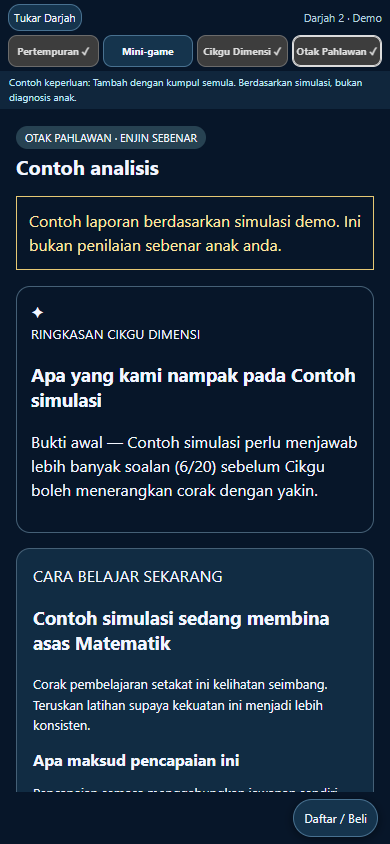
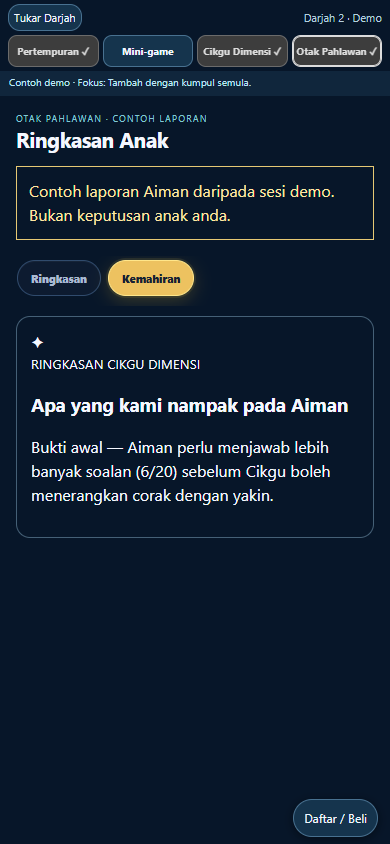
Restore Jelajah finisher and current parent summary with plain BM copy

diff --git a/js/jelajah-v1.js b/js/jelajah-v1.js
@@ -6,18 +6,19 @@
  function collapse(){$('offers').hidden=true;$('buy').setAttribute('aria-expanded','false')}
  function leave(){generation++;cleanup?.();cleanup=null;frame=null;$('content').replaceChildren();if($('autopilotDialog').open)$('autopilotDialog').close();if($('activityIntro').open)$('activityIntro').close();collapse()}
  function cards(){$('cards').hidden=!grade;$('cards').innerHTML=names.map((name,i)=>`<button data-card="${i}" class="${done.has(i)?'done':''}" ${i&&!battleFinished?'disabled':''} ${active===i?'aria-current="page"':''}><img src="${images[i]}" alt=""><strong>${name}</strong><small>${done.has(i)?'✓ Selesai · ulang':i&&!battleFinished?'Selepas battle':'Teroka'}</small></button>`).join('')}
- function entry(){leave();grade=0;done=new Set();battleFinished=false;log=[];cards();$('changeGrade').hidden=true;$('tourLabel').textContent='Demo Jelajah · Pilih darjah';$('status').textContent='Tanpa akaun · Tiada rekod penguasaan disimpan';$('content').innerHTML=`<section class="panel grade-entry"><img class="entry-hero" src="assets/heroes/wira/frames/idle-loop-0-v1.webp" alt="Wira"><h1>Pilih Darjah</h1><p>Cuba enam soalan pertempuran. Kemudian lihat simulasi bantuan melalui mini-game, Cikgu Dimensi dan contoh laporan.</p><div class="grade-grid">${[1,2,3,4,5,6].map(g=>`<button data-grade="${g}">Darjah ${g}</button>`).join('')}</div><p class="lead">Ini demonstrasi. Bukan penilaian sebenar anak anda.</p></section>`}
+ function entry(){leave();grade=0;done=new Set();battleFinished=false;log=[];cards();$('changeGrade').hidden=true;$('tourLabel').textContent='Demo Jelajah · Pilih darjah';$('status').textContent='Tanpa akaun · Cuba percuma';$('content').innerHTML=`<section class="panel grade-entry"><img class="entry-hero" src="assets/heroes/wira/frames/idle-loop-0-v1.webp" alt="Wira"><h1>Pilih Darjah</h1><p>Cuba enam soalan pertempuran. Kemudian lihat simulasi bantuan melalui mini-game, Cikgu Dimensi dan contoh laporan.</p><div class="grade-grid">${[1,2,3,4,5,6].map(g=>`<button data-grade="${g}">Darjah ${g}</button>`).join('')}</div><p class="lead">Ini demonstrasi. Bukan penilaian sebenar anak anda.</p></section>`}
  function startBattle(){leave();active=0;log=[];cards();$('changeGrade').hidden=false;$('tourLabel').textContent=`Darjah ${grade} · Demo`;$('status').textContent='Soalan 1–6: kamu jawab. Selepas itu, pilih Mulakan Autopilot.';$('content').innerHTML=`<iframe title="Battlefield asal · Darjah ${grade}" src="jelajah-runtime.html?grade=${grade}" allow="autoplay"></iframe>`;frame=$('content').querySelector('iframe')}
- function complete(index){done.add(index);cards();leave();$('status').textContent=`${names[index]} selesai. Boleh ulang atau pilih kad seterusnya.`;$('content').innerHTML=`<section class="panel"><h2>${names[index]} selesai</h2><p>${index===1?'Kamu sudah mencuba mini-game sebenar untuk topik simulasi tadi.':'Kitaran contoh Cikgu Dimensi selesai. Latihan ini tidak menulis penguasaan murid.'}</p><button data-open="${index}" class="primary">Ulang aktiviti</button><button data-open="${index===1?2:3}">Teruskan ke ${names[index===1?2:3]}</button></section>`}
+ function complete(index){done.add(index);cards();leave();$('status').textContent=`${names[index]} selesai. Boleh ulang atau pilih kad seterusnya.`;$('content').innerHTML=`<section class="panel"><h2>${names[index]} selesai</h2><p>${index===1?'Syabas! Teruskan dengan latihan Cikgu Dimensi.':'Syabas! Latihan bersama Cikgu Dimensi selesai.'}</p><button data-open="${index}" class="primary">Ulang aktiviti</button><button data-open="${index===1?2:3}">Teruskan ke ${names[index===1?2:3]}</button></section>`}
  function intro(title,text,action){$('activityIntroTitle').textContent=title;$('activityIntroText').textContent=text;$('activityIntroStart').onclick=()=>{$('activityIntro').close();action()};$('activityIntro').showModal()}
- function show(index){if(index&&!battleFinished)return;if(index===0){startBattle();return}leave();active=index;cards();const s=scenario(),token=generation;$('status').textContent=`Contoh keperluan: ${s.topic}. Berdasarkan simulasi, bukan diagnosis anak.`;if(index===3){brain();return}
-  const launch=()=>{$('content').innerHTML='<div class="activity-host" id="activityHost"></div>';const options={snapshot:battleSnapshot,onComplete:()=>{if(token===generation)complete(index)},onExit:()=>{if(token===generation)summary()},onManualComplete:info=>intro('Jom tengok cara','Tiga cabaran selesai. Dua cabaran seterusnya ialah simulasi: lihat bagaimana Wira membimbing melalui mekanik “Jom tengok cara” sebenar.',()=>info.startAutopilot())};cleanup=(index===1?PAJelajahMiniGame:PAJelajahCoach).mount($('activityHost'),s,options)};
-  intro(index===1?'Mini-game mengikut keperluan anak':'Cikgu Dimensi · Latihan campuran',index===1?`Mini-game dipilih mengikut kemahiran yang memerlukan pengukuhan. Dalam simulasi tadi, kesilapan berulang melibatkan ${s.topic.toLowerCase()}. Cuba tiga cabaran sendiri, kemudian lihat dua contoh bantuan automatik.`:`Cikgu Dimensi memberi latihan campuran mengikut keperluan anak. Berdasarkan contoh kesilapan tadi, ${s.topic.toLowerCase()} diberi perhatian melalui pemilihan soalan sebenar. Ini contoh Kembara Fokus, bukan Learning Camp lama.`,launch)
+ function show(index){if(index&&!battleFinished)return;if(index===0){startBattle();return}leave();active=index;cards();const s=scenario(),token=generation;$('status').textContent=`Contoh demo · Fokus: ${s.topic}.`;if(index===3){brain();return}
+  const launch=()=>{$('content').innerHTML='<div class="activity-host" id="activityHost"></div>';const options={snapshot:battleSnapshot,onComplete:()=>{if(token===generation)complete(index)},onExit:()=>{if(token===generation)summary()},onManualComplete:info=>intro('Jom tengok cara','Bagus! Sekarang lihat dua contoh Wira membimbing langkah demi langkah.',()=>info.startAutopilot())};cleanup=(index===1?PAJelajahMiniGame:PAJelajahCoach).mount($('activityHost'),s,options)};
+  intro(index===1?'Berlatih sambil bermain':'Cikgu Dimensi · Latihan campuran',index===1?`Anak kerap tersalah dalam ${s.topic.toLowerCase()}? Mini-game ini membantu menguatkan kemahiran itu. Cuba tiga soalan, kemudian lihat cara Wira membantu. Ini contoh demo.`:`Cikgu Dimensi memberi latihan campuran, dengan lebih soalan tentang ${s.topic.toLowerCase()}, seperti dalam contoh tadi. Cuba enam soalan latihan pilihan Cikgu Dimensi.`,launch)
  }
- function summary(){leave();cards();$('status').textContent='Battle selesai. Pilih mini-game atau Cikgu Dimensi; lihat contoh laporan selepas itu.';$('content').innerHTML=`<section class="panel"><h2>Aurora berjaya diselamatkan!</h2><p>Dalam simulasi tadi: ${scenario().misconception||scenario().topic}.</p><p>Jom cuba bantuan untuk topik yang sama. Soalan manual tidak digunakan untuk menentukan topik ini.</p><button data-open="1" class="primary">Main mini-game</button><button data-open="2">Jumpa Cikgu Dimensi</button></section>`}
- function brain(){done.add(3);cards();$('content').innerHTML=`<section class="panel"><span class="badge">OTAK PAHLAWAN · ENJIN SEBENAR</span><h2>Contoh analisis</h2><p class="report-notice">Contoh laporan berdasarkan simulasi demo. Ini bukan penilaian sebenar anak anda.</p>${battleSnapshot?.reportMarkup||'<p>Analisis sementara belum tersedia.</p>'}<p>Enam jawapan manual dipisahkan daripada data simulasi. Enjin asal menentukan sama ada bukti sudah cukup; demo tidak mereka peratus atau diagnosis.</p></section>`}
+ function summary(){leave();cards();$('status').textContent='Battle selesai. Pilih mini-game atau Cikgu Dimensi; lihat contoh laporan selepas itu.';$('content').innerHTML=`<section class="panel"><h2>Aurora berjaya diselamatkan!</h2><p>Contoh tadi menunjukkan kesilapan dalam ${scenario().topic.toLowerCase()}.</p><p>Jom cuba latihan dan permainan untuk menguatkan kemahiran ini.</p><button data-open="1" class="primary">Main mini-game</button><button data-open="2">Jumpa Cikgu Dimensi</button></section>`}
+ function brain(){done.add(3);cards();$('content').innerHTML=`<section id="parent" class="jelajahParent"><div class="parentTop"><div><div class="eyebrow">OTAK PAHLAWAN · CONTOH LAPORAN</div><h2>Ringkasan Anak</h2></div></div><p class="report-notice">Contoh laporan Aiman daripada sesi demo. Bukan keputusan anak anda.</p><div class="tabs parentTabs"><button data-report="summary" class="active">Ringkasan</button><button data-report="core">Kemahiran</button></div><div id="summaryTab">${battleSnapshot?.reportMarkup||''}</div><div id="coreTab" hidden>${battleSnapshot?.detailMarkup||''}</div></section>`}
+ window.tab=name=>{const detail=name==='core';$('summaryTab').hidden=detail;$('coreTab').hidden=!detail;document.querySelectorAll('[data-report]').forEach(b=>b.classList.toggle('active',b.dataset.report===name))};
  $('cards').onclick=e=>{const b=e.target.closest('[data-card]');if(b&&!b.disabled)show(Number(b.dataset.card))};$('changeGrade').onclick=entry;
- $('content').onclick=e=>{const g=e.target.closest('[data-grade]'),b=e.target.closest('[data-open]');if(g){grade=Number(g.dataset.grade);startBattle()}else if(b)show(Number(b.dataset.open));collapse()};
+ $('content').onclick=e=>{const report=e.target.closest('[data-report]');if(report){window.tab(report.dataset.report);return}const g=e.target.closest('[data-grade]'),b=e.target.closest('[data-open]');if(g){grade=Number(g.dataset.grade);startBattle()}else if(b)show(Number(b.dataset.open));collapse()};
  $('buy').onclick=()=>{const open=$('offers').hidden;$('offers').hidden=!open;$('buy').setAttribute('aria-expanded',String(open))};
  $('offers').onclick=e=>{const b=e.target.closest('[data-offer]');if(!b)return;collapse();$('offerFrame').src='jelajah-offer.html?mode='+b.dataset.offer;$('offerDialog').showModal()};
  $('closeOffer').onclick=()=>$('offerDialog').close();$('offerDialog').addEventListener('close',()=>$('offerFrame').removeAttribute('src'));

diff --git a/js/jelajah-engine-v3.js b/js/jelajah-engine-v3.js
@@ -39,7 +39,7 @@
  function profileSnapshot(profile,session){return{profile:clone(profile),session:clone(session)}}
  function create(grade,options={}){
   const g=Number(grade)||Number(options.profile?.schoolGrade)||1;
-  const profile=clone(options.profile||(typeof db!=='undefined'?db:root.db)||{});profile.schoolGrade=g;profile.name='Contoh simulasi';profile.demoMode=true;
+  const profile=clone(options.profile||(typeof db!=='undefined'?db:root.db)||{});profile.schoolGrade=g;profile.name='Aiman';profile.demoMode=true;
   profile.diagLog=Array.isArray(profile.diagLog)?profile.diagLog.slice():[];
   const session=clone(options.session||{gembok:true,mode:'gembok',demoMode:true,jelajahEngine:true,coachAdaptive:false,recent:[],responseHistory:[],interventionCooldown:{},confirmSkill:null,confirmRemaining:0,questionToken:0});
   session.demoMode=true;session.jelajahEngine=true;session.coachAdaptive=false;session.gembok=true;session.mode='gembok';session.recent=session.recent||[];session.responseHistory=session.responseHistory||[];
@@ -91,9 +91,13 @@
   function snapshot(){
    const B=root.PADiagnostic,T=root.PATargets;report=B?.analyze?B.analyze(profile.diagLog,{name:profile.name}):{findings:[],strengths:[],total:profile.diagLog.length,enough:false,name:profile.name};
    const plan=T?.plan?T.plan(report,{grade:g}):{steps:[]};
-   const learnerMarkup=withState(profile,session,()=>typeof learnerReviewCard==='function'?learnerReviewCard():'');
+   const parentMarkup=withState(profile,session,()=>{
+    const core=graph().skills.filter(x=>Number(x.grade)===g),rows=learnerDisplayStats();
+    const attempts=rows?.attempts||core.reduce((n,m)=>n+skillAttempts(scoreState(m.id)),0);
+    return parentGlanceMarkup(g,parentPowerSummary(core,attempts));
+   });
    const focusSummary=withState(profile,session,()=>root.PAFocusPractice?.summary?.(profile)||null);
-   return{grade:g,profile:clone(profile),session:clone(session),report:clone(report),plan:clone(plan),focusSummary:clone(focusSummary),reportMarkup:(B?.cardMarkup?B.cardMarkup(report):'')+learnerMarkup};
+   return{grade:g,profile:clone(profile),session:clone(session),report:clone(report),plan:clone(plan),focusSummary:clone(focusSummary),reportMarkup:parentMarkup,detailMarkup:B?.cardMarkup?B.cardMarkup(report):''};
   }
   function restore(state){if(!state)return snapshot();Object.assign(profile,clone(state.profile||{}));Object.assign(session,clone(state.session||{}));report=clone(state.report||null);focusPlan=null;return snapshot()}
   function focus(skill){

diff --git a/demo-jelajah.html b/demo-jelajah.html
@@ -1,4 +1,4 @@
-<!doctype html><html lang="ms"><head><meta charset="utf-8"><meta name="viewport" content="width=device-width,initial-scale=1,viewport-fit=cover"><meta name="robots" content="noindex,nofollow"><title>Pahlawan Angka · Demo Jelajah V1</title><link rel="stylesheet" href="css/jelajah-v1.css"></head><body>
+<!doctype html><html lang="ms"><head><meta charset="utf-8"><meta name="viewport" content="width=device-width,initial-scale=1,viewport-fit=cover"><meta name="robots" content="noindex,nofollow"><title>Pahlawan Angka · Demo Jelajah V1</title><link rel="stylesheet" href="css/parent-dashboard-v3.25.4.css"><link rel="stylesheet" href="css/jelajah-v1.css"></head><body>
 <div class="tour"><header><button id="changeGrade" hidden>Tukar Darjah</button><small id="tourLabel">Demo Jelajah · Pilih darjah</small></header><nav id="cards" aria-label="Jelajah demo" hidden></nav><p id="status" role="status">Cuba pertempuran, kemudian lihat cara Pahlawan Angka membantu.</p><main id="content"></main><footer><div id="offers" hidden><button data-offer="daftar">Daftar Percuma</button><button data-offer="pakej">Lihat Pakej</button></div><button id="buy" aria-expanded="false" aria-controls="offers">Daftar / Beli</button></footer></div>
 <dialog id="autopilotDialog" aria-labelledby="autopilotTitle"><h2 id="autopilotTitle">Lihat contoh bantuan</h2><p>Sekarang tengok bagaimana Pahlawan Angka membantu apabila murid berulang kali tersalah jawab. Enam soalan seterusnya ialah simulasi automatik.</p><button id="startAutopilot" class="primary">Mulakan Autopilot</button></dialog>
 <dialog id="offerDialog" aria-label="Daftar dan pakej"><button id="closeOffer">Tutup · Sambung demo</button><iframe id="offerFrame" title="Daftar dan pakej Pahlawan Angka"></iframe></dialog>

diff --git a/js/segel-demo-v2.1.0.js b/js/segel-demo-v2.1.0.js
@@ -2931,11 +2931,16 @@
       /* Tiada pengembaraan yang gagal — Aurora sentiasa diselamatkan, cuma
          bintang yang berbeza. Kalau soalan habis sebelum semua segel pecah,
          Wira menghabiskan bakinya di sini. */
-      async forceBreakRest(){
+      async forceBreakRest(showFinisher=false){
         const lifecycle=S.lifecycle;
         while(S.active<stageTiers.length){
           if(lifecycle!==S.lifecycle)return false;
           const s=seals[S.active];
+          if(showFinisher&&S.active===stageTiers.length-1){
+            s.damage=Math.max(s.damage,1-1/s.tier.hits);
+            await this.strike();if(lifecycle!==S.lifecycle)return false;
+            this.hitSeal();await this.waitFinalImpact();return lifecycle===S.lifecycle;
+          }
           s.damage=1; s.broken=true; s.breakT=0;
           if(!reduceMotion)shatter(s);
           popSound(); burst(6,s.tier.color); S.flashT=0; S.shake=.4;
@@ -3898,7 +3903,7 @@
     $('segelTag').style.opacity='0';
     if(!stage.allBroken()){
       toast('SATU TEBASAN LAGI!');
-      await stage.forceBreakRest();
+      await stage.forceBreakRest(!!(entryMode?.guestDemo&&entryMode?.jelajah));
       if(!currentRun(activeRun))return;
     }
     toast(`${devPetName().toUpperCase()} BEBAS!`);

diff --git a/css/jelajah-v1.css b/css/jelajah-v1.css
@@ -5,3 +5,5 @@
 #cards{gap:4px;padding:0 8px 4px}#cards button{display:block;min-height:30px;height:32px;padding:5px 2px;border-radius:9px;font-size:10px}#cards img,#cards small{display:none!important}#cards strong{font-size:10px;line-height:16px;white-space:nowrap}#cards .done strong:after{content:' ✓'}header{padding:4px 8px;min-height:24px}#status{min-height:25px;padding:4px 9px;font-size:10px}.paDiagCard{padding:14px;border:1px solid #456076;border-radius:14px}.paDiagList{padding-left:18px}.paDiagList li{margin:12px 0;line-height:1.5}
 #engineTip{display:block;font-size:10px;line-height:1.3;color:#c4ecdf;margin-top:3px}
 @media(max-width:380px){#cards strong{font-size:9px}}.learnerReviewCard{background:#112c43;padding:16px;border:1px solid #456076;border-radius:14px;margin-top:15px}.learnerReviewCard p,.learnerReviewCard li{font-size:13px;line-height:1.6}
+
+#parent.jelajahParent{max-width:780px;margin:auto;padding:16px}#parent .parentTabs button.active{background:#edc260;color:#172033}#parent .paDiagCard{margin-top:10px}

diff --git a/js/jelajah-battle-bridge-v1.js b/js/jelajah-battle-bridge-v1.js
@@ -7,7 +7,7 @@
   clearTimeout(pending);const index=run.asked,step=scenario.scriptSteps[index-6],hint=document.getElementById('segelHint');
   if(index>=8){hint.disabled=false;hint.click()}hint.disabled=true;
   const snapshot=engine.snapshot(),confirm=snapshot.session.confirmSkill;
-  const reason=index===6?'Contoh murid tersalah dalam simulasi.':confirm?'Sistem sebenar meminta soalan pengesahan untuk kemahiran yang sama.':'Sistem sebenar memilih latihan seterusnya berdasarkan bukti sementara.';
+  const reason=index===6?'Lihat contoh apabila jawapan tersalah.':confirm?'Cuba soalan sejenis untuk lihat bahagian yang belum difahami.':'Latihan seterusnya dipilih mengikut jawapan tadi.';
   document.getElementById('segelFeedback').textContent=reason;
   tell('engine-tip',{text:reason,skill:run.q.skill,reason:confirm?'confirmation':'adaptive'});
   let consumed=false;

diff --git a/docs/DEMO-JELAJAH-V1.md b/docs/DEMO-JELAJAH-V1.md
@@ -21,7 +21,8 @@ Open http://127.0.0.1:4173/demo-jelajah.html. Build before packaging with
   and correct/wrong intentions. `chooseModeAndSkill`, production journey
   `firstWrong`/`recordResolved`, and intervention confirmation choose and validate
   follow-ups. No handwritten demo question bank or invented adaptive percentages.
-- After battle all cards unlock. Completed cards remain replayable.
+- After battle all cards unlock. Completed cards remain replayable. If scripted misses leave seals intact,
+  the original finisher focus/charge/strike sequence plays before rescue.
 - Mini-game opens an explanatory popup, then a copied original production game
   selected for the same simulated weak skill. Three manual successful rounds lead
   to an explicit hand-off to two actual PAWorked / Jom tengok cara rounds.
@@ -29,8 +30,10 @@ Open http://127.0.0.1:4173/demo-jelajah.html. Build before packaging with
   The isolated focus is set to the same weak skill; the real confirmation queue
   starts focused follow-ups, then the actual selector chooses further practice.
   The old Learning Camp UI is not mounted.
-- Otak Pahlawan renders the real diagnostic card and real parent learner-review
-  card from the isolated simulated records. Actual evidence thresholds apply;
+- Otak Pahlawan renders the current parent Ringkasan Anak using the original
+  parentGlanceMarkup / PAParentGlance helpers and parent dashboard stylesheet.
+  Ringkasan and Kemahiran tabs separate the concise summary from diagnostic detail.
+  The obsolete Cara Belajar Sekarang card is not included. Actual evidence thresholds apply;
   short evidence can display Bukti awal rather than an invented diagnosis.
 - Daftar / Beli remains in a reserved compact footer. Offers open the original
   registration/pricing UI in a separate modal.
@@ -60,4 +63,4 @@ manual successes and two guided rounds in each grade. The commercial access,
 funnel, page-lock and isolation regression suites cover the protected paid paths.
 Evidence is stored under `review/`.
 
-Current draft preview: https://6ae1acf6dca0849e12af728f--pahlawanangka.netlify.app/demo-jelajah.html
+Current draft preview: https://6ae1b3f58176648e0d26fa7f--pahlawanangka.netlify.app/demo-jelajah.html

diff --git a/review/jelajah-final-verification.md b/review/jelajah-final-verification.md
@@ -19,3 +19,7 @@
   draft preview is authorized. No production promotion was performed.
 
 Draft deployment: 6ae1acf6dca0849e12af728f. Source commit: f5cb3b5.
+
+Correction: finisher focus sequence verified in all six grades after scripted misses. Parent report now uses the current Ringkasan Anak summary helper and original stylesheet, with Kemahiran detail. Plain BM popups and report tabs passed the 390px browser audit. The old learnerReviewCard is absent.
+
+Full animation (no reduced motion) Darjah 2 passed original finisher focus sequence, battle completion, focus practice and current parent report. Current draft: https://6ae1b3f58176648e0d26fa7f--pahlawanangka.netlify.app/demo-jelajah.html
